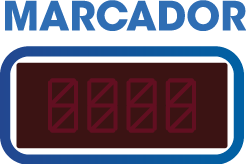
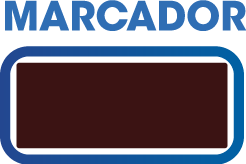
Juego funcional (falta boton de iniciar cronometro)

Changed region(s): [[0.1707, 0.4573, 0.4837, 0.8232], [0.5122, 0.4573, 0.7967, 0.8232]]

diff --git a/js/app.js b/js/app.js
@@ -1,14 +1,35 @@
 let pulmones;
 let respiracion = true; //true inhala, false exhala 
+let virusMove = true;
+let score = 0; 
+let cronometro = 30;
+let displayScore;
+let displayCronometro;
+let mContext;
+
+let positions = Array(
+    [130, 450],
+    [160, 590],
+    [190, 520],
+
+    [220, 420],
+    [250, 555],
+    [280, 580],
+    [310, 630],
+
+    [340, 590],
+    [370, 549],
+    [400, 440],
+
+    [430, 460],
+    [460, 530],
+    [310, 540],
+    [420, 475]
+);
+let aux;
 
 // Virus
-let virus_1_1;
-let virus_1_2;
-let virus_1_3;
-let virus_2_1;
-let virus_2_2;
-let virus_3_1;
-let virus_3_2;
+let virus = [];
 
 class MainScene extends Phaser.Scene {
     constructor(){
@@ -18,64 +39,145 @@ class MainScene extends Phaser.Scene {
     preload(){ 
         this.load.image('background', './assets/img/juegobisolvon-background.jpg');
         this.load.image('pulmones', './assets/img/pulmon.png'); 
-        this.load.image('virus_1_1', './assets/img/virus_1-1.png');
-        this.load.image('virus_1_2', './assets/img/virus_1-2.png');
-        this.load.image('virus_1_3', './assets/img/virus_1-3.png');
-        this.load.image('virus_2_1', './assets/img/virus_2-1.png');
-        this.load.image('virus_2_2', './assets/img/virus_2-2.png');
-        this.load.image('virus_3_1', './assets/img/virus_3-1.png');
-        this.load.image('virus_3_2', './assets/img/virus_3-2.png');
+        this.load.image('virus1', './assets/img/virus_1.png');
+        this.load.image('virus2', './assets/img/virus_2.png');
+        this.load.image('virus3', './assets/img/virus_3.png');
+        this.load.image('virus4', './assets/img/virus_4.png');
+        this.load.image('virus5', './assets/img/virus_5.png');
+        this.load.image('virus6', './assets/img/virus_6.png');
+        this.load.image('virus7', './assets/img/virus_7.png');
         this.load.image('hero', './assets/img/hero.png');
         this.load.image('productos', './assets/img/productos.png');
         this.load.image('header', './assets/img/header.png');
         this.load.image('marcador', './assets/img/marcador.png');
+        this.load.image('cronometro', './assets/img/cronometro.png');
+        this.load.image('logo', './assets/img/logo.png'); 
     }
  
     create(){
         let background = this.add.image(257, 500, 'background').setScale(.48, .5);
+        this.getContext();
         pulmones = this.add.image(257, 500, 'pulmones').setScale(.38, .5);
         this.add.image(257, 125, 'header').setScale(.5);
         this.add.image(95, 285, 'marcador').setScale(.4);
-        
+        this.add.image(420, 285, 'cronometro').setScale(.4);
+        displayScore = this.add.text(95, 280, "0"+score, { font: '32px Courier', fill: '#ff0000' });
+        displayCronometro = this.add.text(382, 280, "0:"+cronometro, { font: '32px Courier', fill: '#ff0000' });
+
         // Virus left
-        virus_1_1 = this.add.image(150, 450, 'virus_1_1').setScale(.6);
-        virus_2_1 = this.add.image(90, 590, 'virus_2_1').setScale(.6);
-        virus_3_1 = this.add.image(200, 580, 'virus_3_1').setScale(.6);
-
-        // Virus right
-        virus_1_2 = this.add.image(310, 420, 'virus_1_2').setScale(.6);
-        virus_2_2 = this.add.image(420, 530, 'virus_2_2').setScale(.6);
-        virus_3_2 = this.add.image(310, 580, 'virus_3_2').setScale(.6);
-        virus_1_3 = this.add.image(420, 630, 'virus_1_3').setScale(.6);
-
-        virus_1_1.setInteractive()
-
-        
-        let cont = 1;
-        while(cont < 7){
-            virus_1_1
-        }
-        virus_1_1.on('pointerdown', function (pointer)
-        {   
-            virus_1_1.setTexture('hero');
-        });
+        this.generateVirus();
+        this.startCronometro();        
 
         this.add.image(257, 750, 'hero').setScale(.5);
-        this.add.image(257, 940, 'productos').setScale(.5);
+        this.add.image(257, 940, 'productos').setScale(.5);        
+    }    
+
+    generateVirus(){
+        // Destruye los elementos y vacía el arreglo
+        virus.forEach((elem) => {
+            elem[0].destroy();
+        });
+        virus = [];
+
+
+        let cont = 1;
+        let acum = 0;     
+        while(cont < 8){
+            if (cont == 1 || cont == 2 || cont == 3){
+                virus.push([this.add.image(positions[this.getRandomInt(positions.length)][0], positions[this.getRandomInt(positions.length)][1], `virus${cont}`).setScale(.6), 1]);
+            }else if (cont == 4 || cont == 5) {
+                virus.push([this.add.image(positions[this.getRandomInt(positions.length)][0], positions[this.getRandomInt(positions.length)][1], `virus${cont}`).setScale(.6), 2]);
+            }else {
+                virus.push([this.add.image(positions[this.getRandomInt(positions.length)][0], positions[this.getRandomInt(positions.length)][1], `virus${cont}`).setScale(.6), 3]);
+            }
+            cont++;
+        }
+        
+        virus.forEach((elem) => {
+            elem[0].setInteractive();
+            elem[0].on('pointerdown', function (pointer){   
+                elem[0].setTexture('logo');
+                mContext.addScore(elem[1]);
+                elem[0].disableInteractive();
+
+                acum++;
+                if (acum == 7){
+                    acum = 0;
+                    mContext.generateVirus();
+                }
+            });
+        });
     }
-    
+
+    addScore(num){
+        score += num;
+        if (score < 10){
+            displayScore.setText("0"+score);
+        }else {
+            displayScore.setText(score);
+        }
+    }
+
+    startCronometro(){
+        const interval = setInterval(() => {
+            cronometro--;
+            displayCronometro.setText("0:"+cronometro);        
+            if (cronometro == 0){ 
+                clearInterval(interval);
+                virus.forEach((elem) => {
+                    elem[0].disableInteractive();
+                });
+            }
+        }, 1000);        
+    }
+
+    getRandomInt(max) {
+        if (aux != Math.floor(Math.random() * max)){
+            aux = Math.floor(Math.random() * max)
+        }else {
+            this.getRandomInt(positions.length);
+        }
+        return aux;
+    }
+
+    getRandomDouble(max){
+        return Math.random() * max;
+    }
+
+    getContext (){
+        mContext = this;
+    }
+
     update(){
         if (respiracion){
-            pulmones.scale += .0028;
+            pulmones.scale += .0013;
             respiracion = pulmones.scale >= .6 ? !respiracion : respiracion;
         }else if (!respiracion) {
-            pulmones.scale -= .0028;
+            pulmones.scale -= .0013;
             respiracion = pulmones.scale <= .5 ? !respiracion : respiracion;            
-        }
+        }        
 
-        console.log(pulmones.scale);
+
+        if (virusMove){
+            // movimiento virus
+            virus.forEach((elem) => {
+                elem[0].y += .1
+                elem[0].x += .1
+                elem[0].angle += .5;
+
+                virusMove = elem[0].angle >= 10 ? !virusMove : virusMove;            
+            });
+        }else if (!virusMove){
+            virus.forEach((elem) => {
+                elem[0].y -= .1
+                elem[0].x -= .1
+                elem[0].angle -= .5;
+
+                virusMove = elem[0].angle <= -10 ? !virusMove : virusMove;   
+            });
+        }
     }
-}
+} 
 
 // Configuracion general
 const config = {
